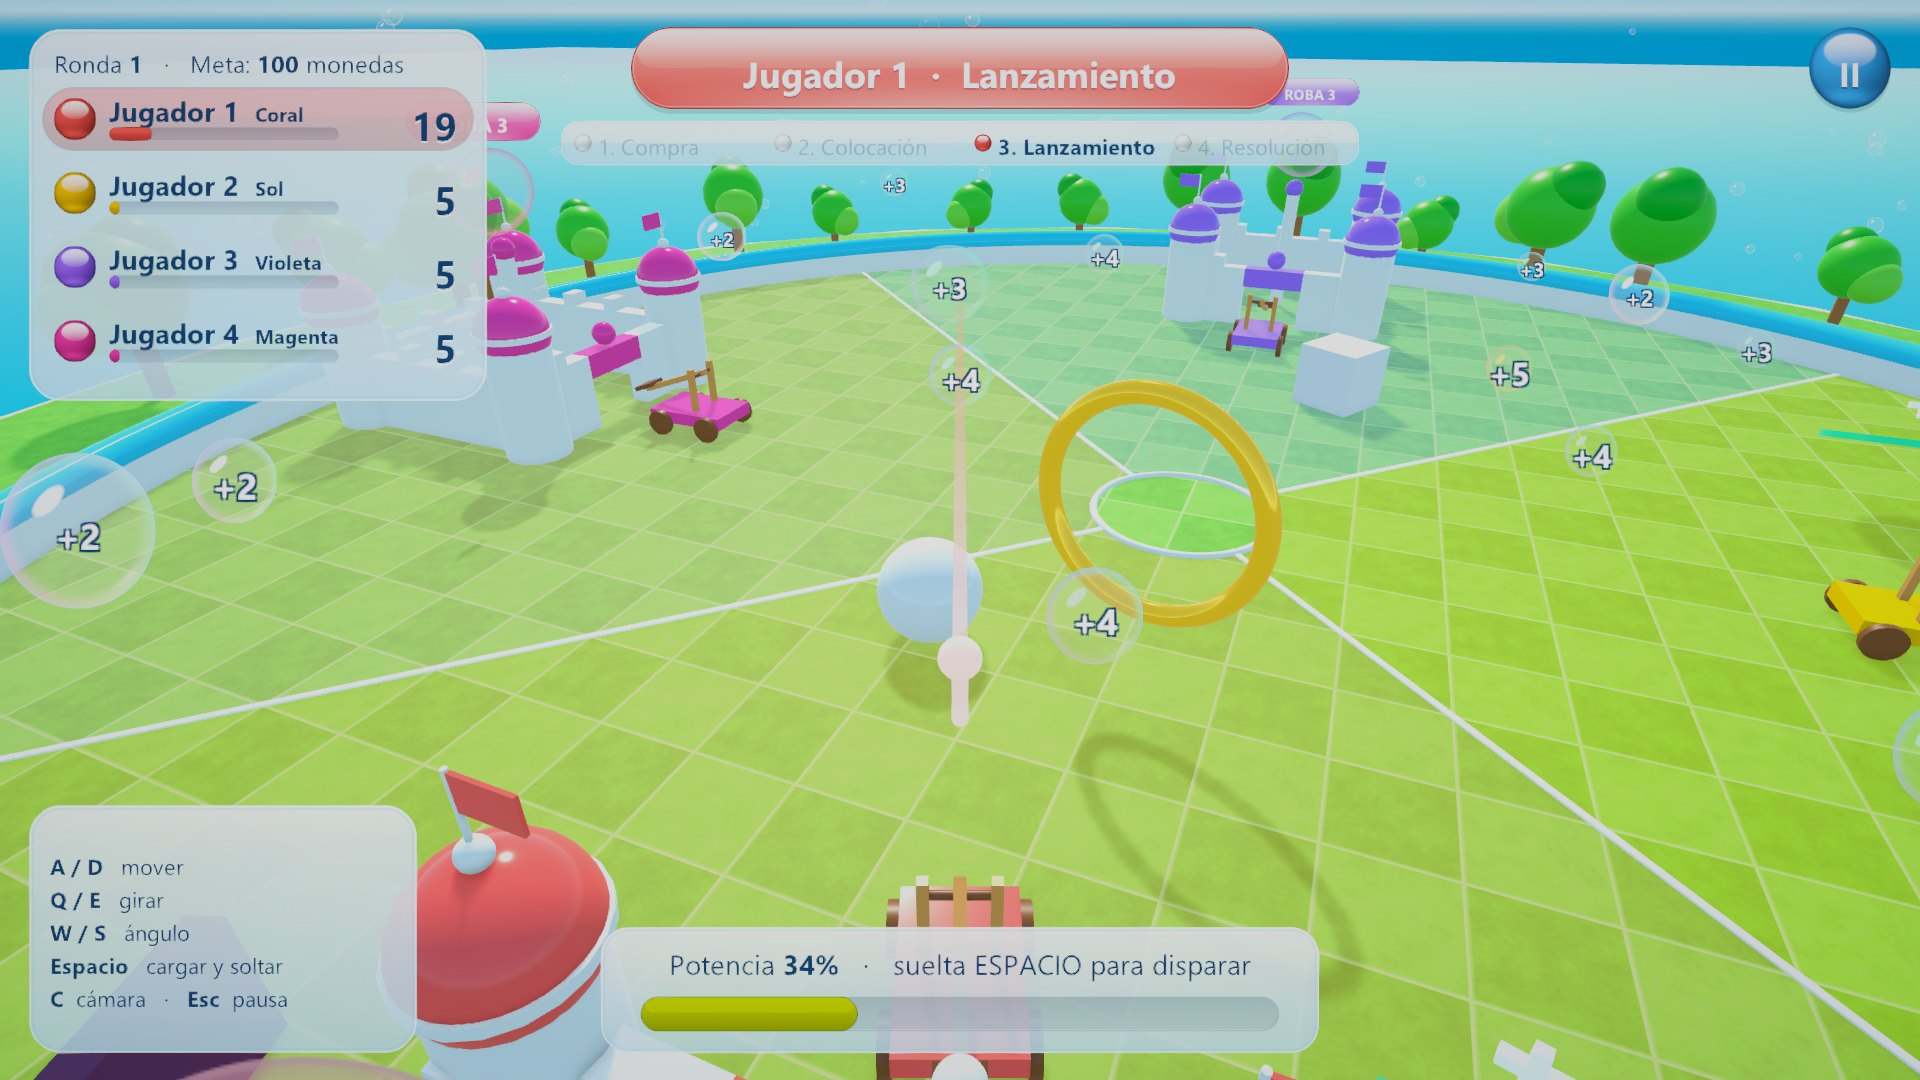
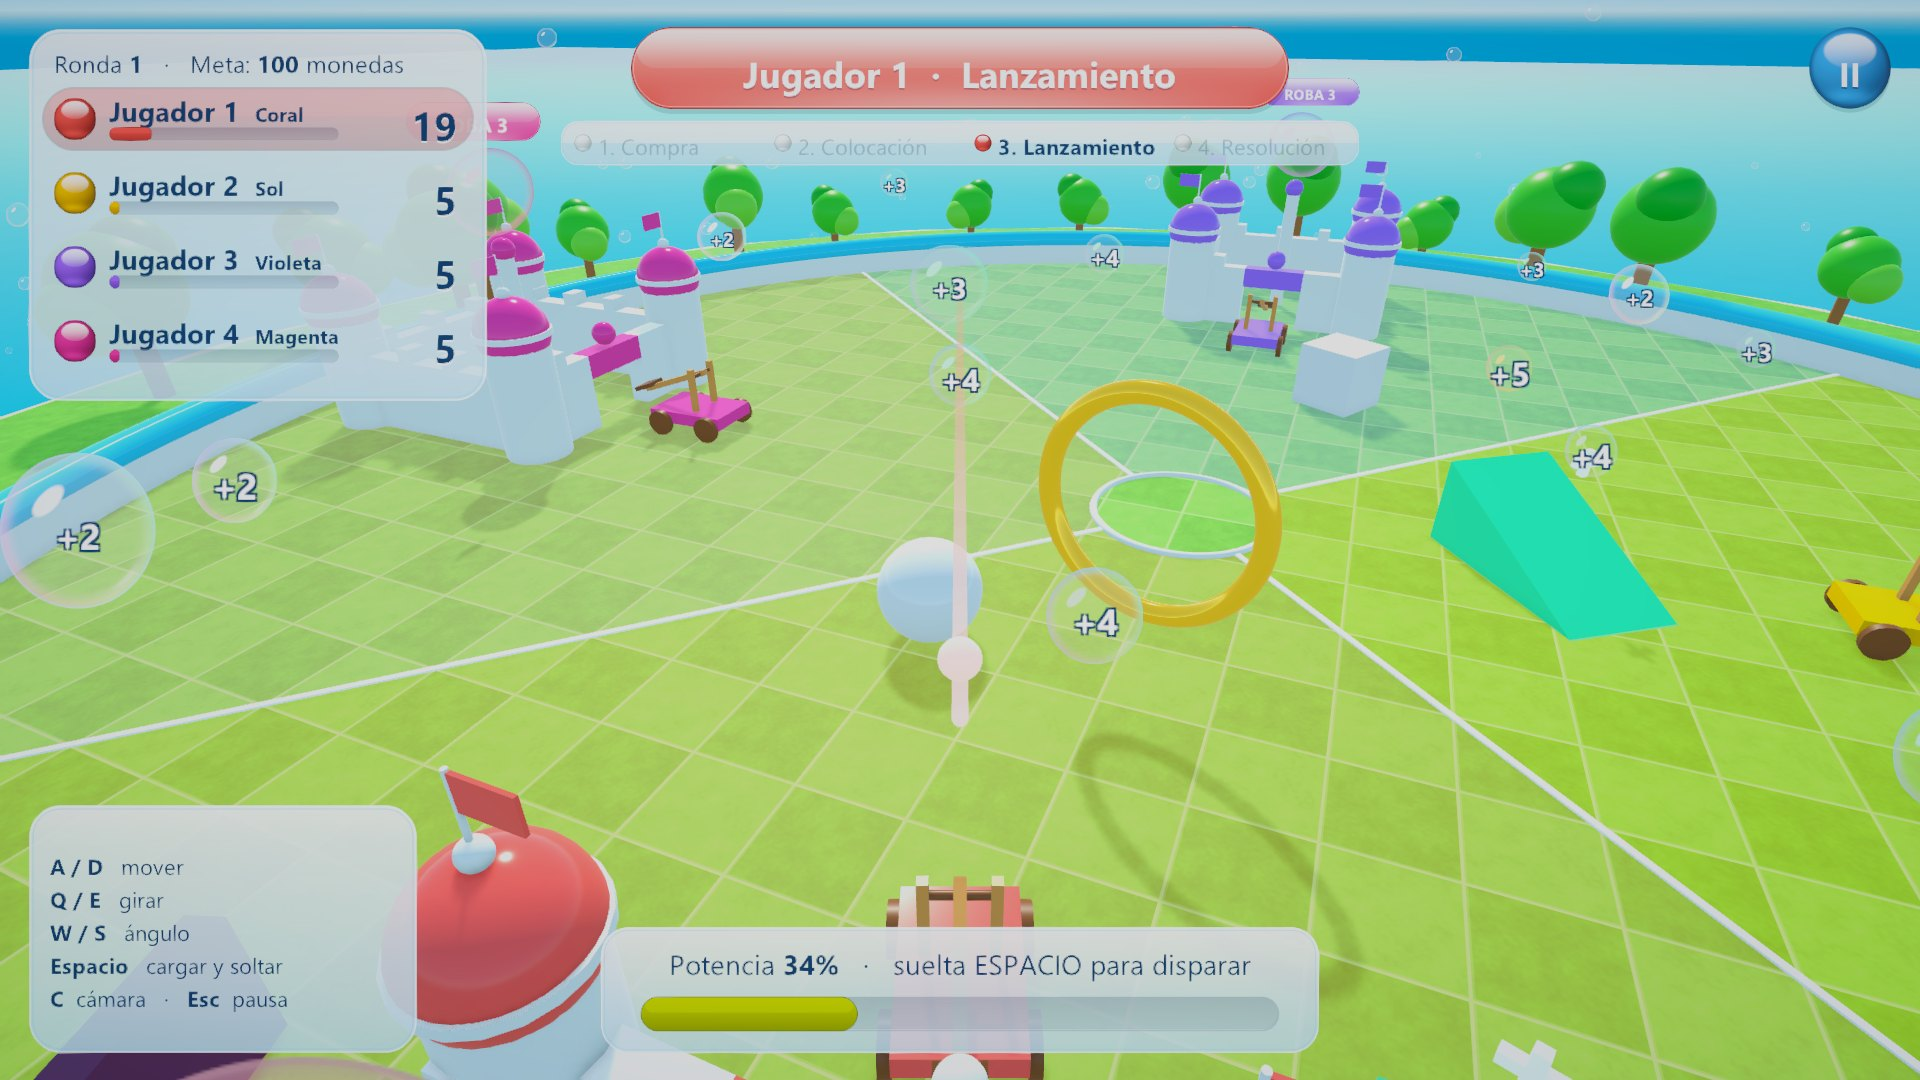
Landing: la tapa ahora es una rampa
Tarjeta, modelo 3D (cuña de 4,4 × 2 × 2,6), íconos y capturas nuevas
del juego con la rampa. La captura de la tienda ya no tiene el texto
encimado. También arregla un "`n" que rompía el estilo dorado de la
insignia del aro.

diff --git a/landing/index.html b/landing/index.html
@@ -528,7 +528,8 @@ canvas.gl3d { position: fixed; left: 0; top: 0; width: 100vw; height: 100vh; poi
 .variants .v-normal[aria-pressed="true"] { background: linear-gradient(to bottom, #ffffff, #b4c6d4 55%, #8ea7ba); color: var(--navy); text-shadow: none; border-color: #6e8597; }
 .variants .v-pos[aria-pressed="true"] { background: linear-gradient(to bottom, #b4f08c, #62c93a 50%, #3fa821); border-color: #2c7a17; }
 .variants .v-neg[aria-pressed="true"] { background: linear-gradient(to bottom, #6b7390, #2b3146 50%, #1b1f2e); border-color: #12151f; }
-.variants .badge { padding: 7px 14px; border-radius: 999px; font: 700 0.8rem/1 var(--font-body); border: 1px solid #9a6a0c; box-shadow: inset 0 1px 0 rgba(255, 255, 255, 0.7), 0 4px 10px rgba(4, 38, 77, 0.2); }`n.variants .v-special { background: linear-gradient(to bottom, #fff1b8, #f0b73c 50%, #d99a1c); color: var(--navy); }
+.variants .badge { padding: 7px 14px; border-radius: 999px; font: 700 0.8rem/1 var(--font-body); border: 1px solid #9a6a0c; box-shadow: inset 0 1px 0 rgba(255, 255, 255, 0.7), 0 4px 10px rgba(4, 38, 77, 0.2); }
+.variants .v-special { background: linear-gradient(to bottom, #fff1b8, #f0b73c 50%, #d99a1c); color: var(--navy); }
 .effect { color: var(--ink); min-height: 3.2em; transition: opacity 0.3s; }
 .effect.is-fading { opacity: 0; }
 .price { margin-top: 10px; font-size: 0.85rem; color: var(--ink-soft); font-weight: 600; display: flex; align-items: center; gap: 6px; flex-wrap: wrap; }
@@ -845,20 +846,20 @@ canvas.gl3d { position: fixed; left: 0; top: 0; width: 100vw; height: 100vh; poi
           </div>
           <p class="effect">Solo desvía la pelota: no da ni quita monedas.</p>
           <div class="rule"><i class="info">■</i><p>Rectángulo largo para cerrar un paso o hacer rebotar tiros.</p></div>
-          <div class="rule"><i class="info">↻</i><p>Gírala e inclínala para armar rampas.</p></div>
+          <div class="rule"><i class="info">↻</i><p>Gírala e inclínala para cerrar pasos o hacer techos.</p></div>
           <p class="price"><span class="coin" aria-hidden="true"></span> <b data-v="normal" class="on">Normal 4</b> · <b data-v="positive">Positivo 9</b> · <b data-v="negative">Negativo 7</b></p>
         </article>
         <article class="pane">
-          <div class="shape-art" data-kind="lid" data-variant="normal" tabindex="0" role="img" aria-label="Tapa en 3D: arrastra para girarlo"><img class="fallback" src="img/objetos/lid_normal.png" alt=""><span class="hint" aria-hidden="true">↻ Arrastra</span></div>
-          <h3>Tapa</h3>
-          <div class="variants" role="group" aria-label="Variantes de tapa">
+          <div class="shape-art" data-kind="ramp" data-variant="normal" tabindex="0" role="img" aria-label="Rampa en 3D: arrastra para girarla"><img class="fallback" src="img/objetos/ramp_normal.png" alt=""><span class="hint" aria-hidden="true">↻ Arrastra</span></div>
+          <h3>Rampa</h3>
+          <div class="variants" role="group" aria-label="Variantes de rampa">
             <button type="button" class="v-normal" data-variant="normal" aria-pressed="true">Normal</button>
             <button type="button" class="v-pos" data-variant="positive" aria-pressed="false">Positivo +2</button>
             <button type="button" class="v-neg" data-variant="negative" aria-pressed="false">Negativo −2</button>
           </div>
           <p class="effect">Solo desvía la pelota: no da ni quita monedas.</p>
-          <div class="rule"><i class="info">■</i><p>Disco plano y ancho: sirve de techo, de rampa o de trampolín.</p></div>
-          <div class="rule"><i class="info">↻</i><p>Súbela en el aire para tapar burbujas desde arriba.</p></div>
+          <div class="rule"><i class="info">■</i><p>Cuña inclinada: la pelota sube por ella y sale volando.</p></div>
+          <div class="rule"><i class="info">↻</i><p>Apúntala hacia las burbujas; por detrás es una pared.</p></div>
           <p class="price"><span class="coin" aria-hidden="true"></span> <b data-v="normal" class="on">Normal 3</b> · <b data-v="positive">Positivo 8</b> · <b data-v="negative">Negativo 6</b></p>
         </article>
         <article class="pane">
@@ -1371,7 +1372,11 @@ canvas.gl3d { position: fixed; left: 0; top: 0; width: 100vw; height: 100vh; poi
     function geometry(kind) {
       switch (kind) {
         case "wall": return new RoundedBoxGeometry(5, 2, 0.5, 4, 0.06);
-        case "lid": return new THREE.CylinderGeometry(1.7, 1.7, 0.16, 72);
+        case "ramp": {   // cuña: 4,4 de largo, 2 de alto y 2,6 de ancho
+          const s = new THREE.Shape();
+          s.moveTo(-2.2, 0); s.lineTo(2.2, 0); s.lineTo(2.2, 2.0); s.closePath();
+          return new THREE.ExtrudeGeometry(s, { depth: 2.6, bevelEnabled: false });
+        }
         case "cylinder": return new THREE.CylinderGeometry(0.55, 0.55, 4.2, 56);
         case "sphere": return new THREE.SphereGeometry(1.05, 64, 32);
         case "pyramid": { const p = new THREE.ConeGeometry(2.4 / Math.SQRT2, 2.1, 4, 1); p.rotateY(Math.PI / 4); return p; }
@@ -1380,7 +1385,7 @@ canvas.gl3d { position: fixed; left: 0; top: 0; width: 100vw; height: 100vh; poi
       }
     }
     // Pose inicial que mejor muestra cada forma
-    const POSE = { wall: [0.12, 0.5], lid: [0.55, 0], cylinder: [0.15, 0.9], pyramid: [0.05, 0.3], ring: [0.08, 0.55], cube: [0.25, 0.6], sphere: [0, 0] };
+    const POSE = { wall: [0.12, 0.5], ramp: [0.2, 0.6], cylinder: [0.15, 0.9], pyramid: [0.05, 0.3], ring: [0.08, 0.55], cube: [0.25, 0.6], sphere: [0, 0] };
 
     function symbol(plus) {
       const grp = new THREE.Group();
